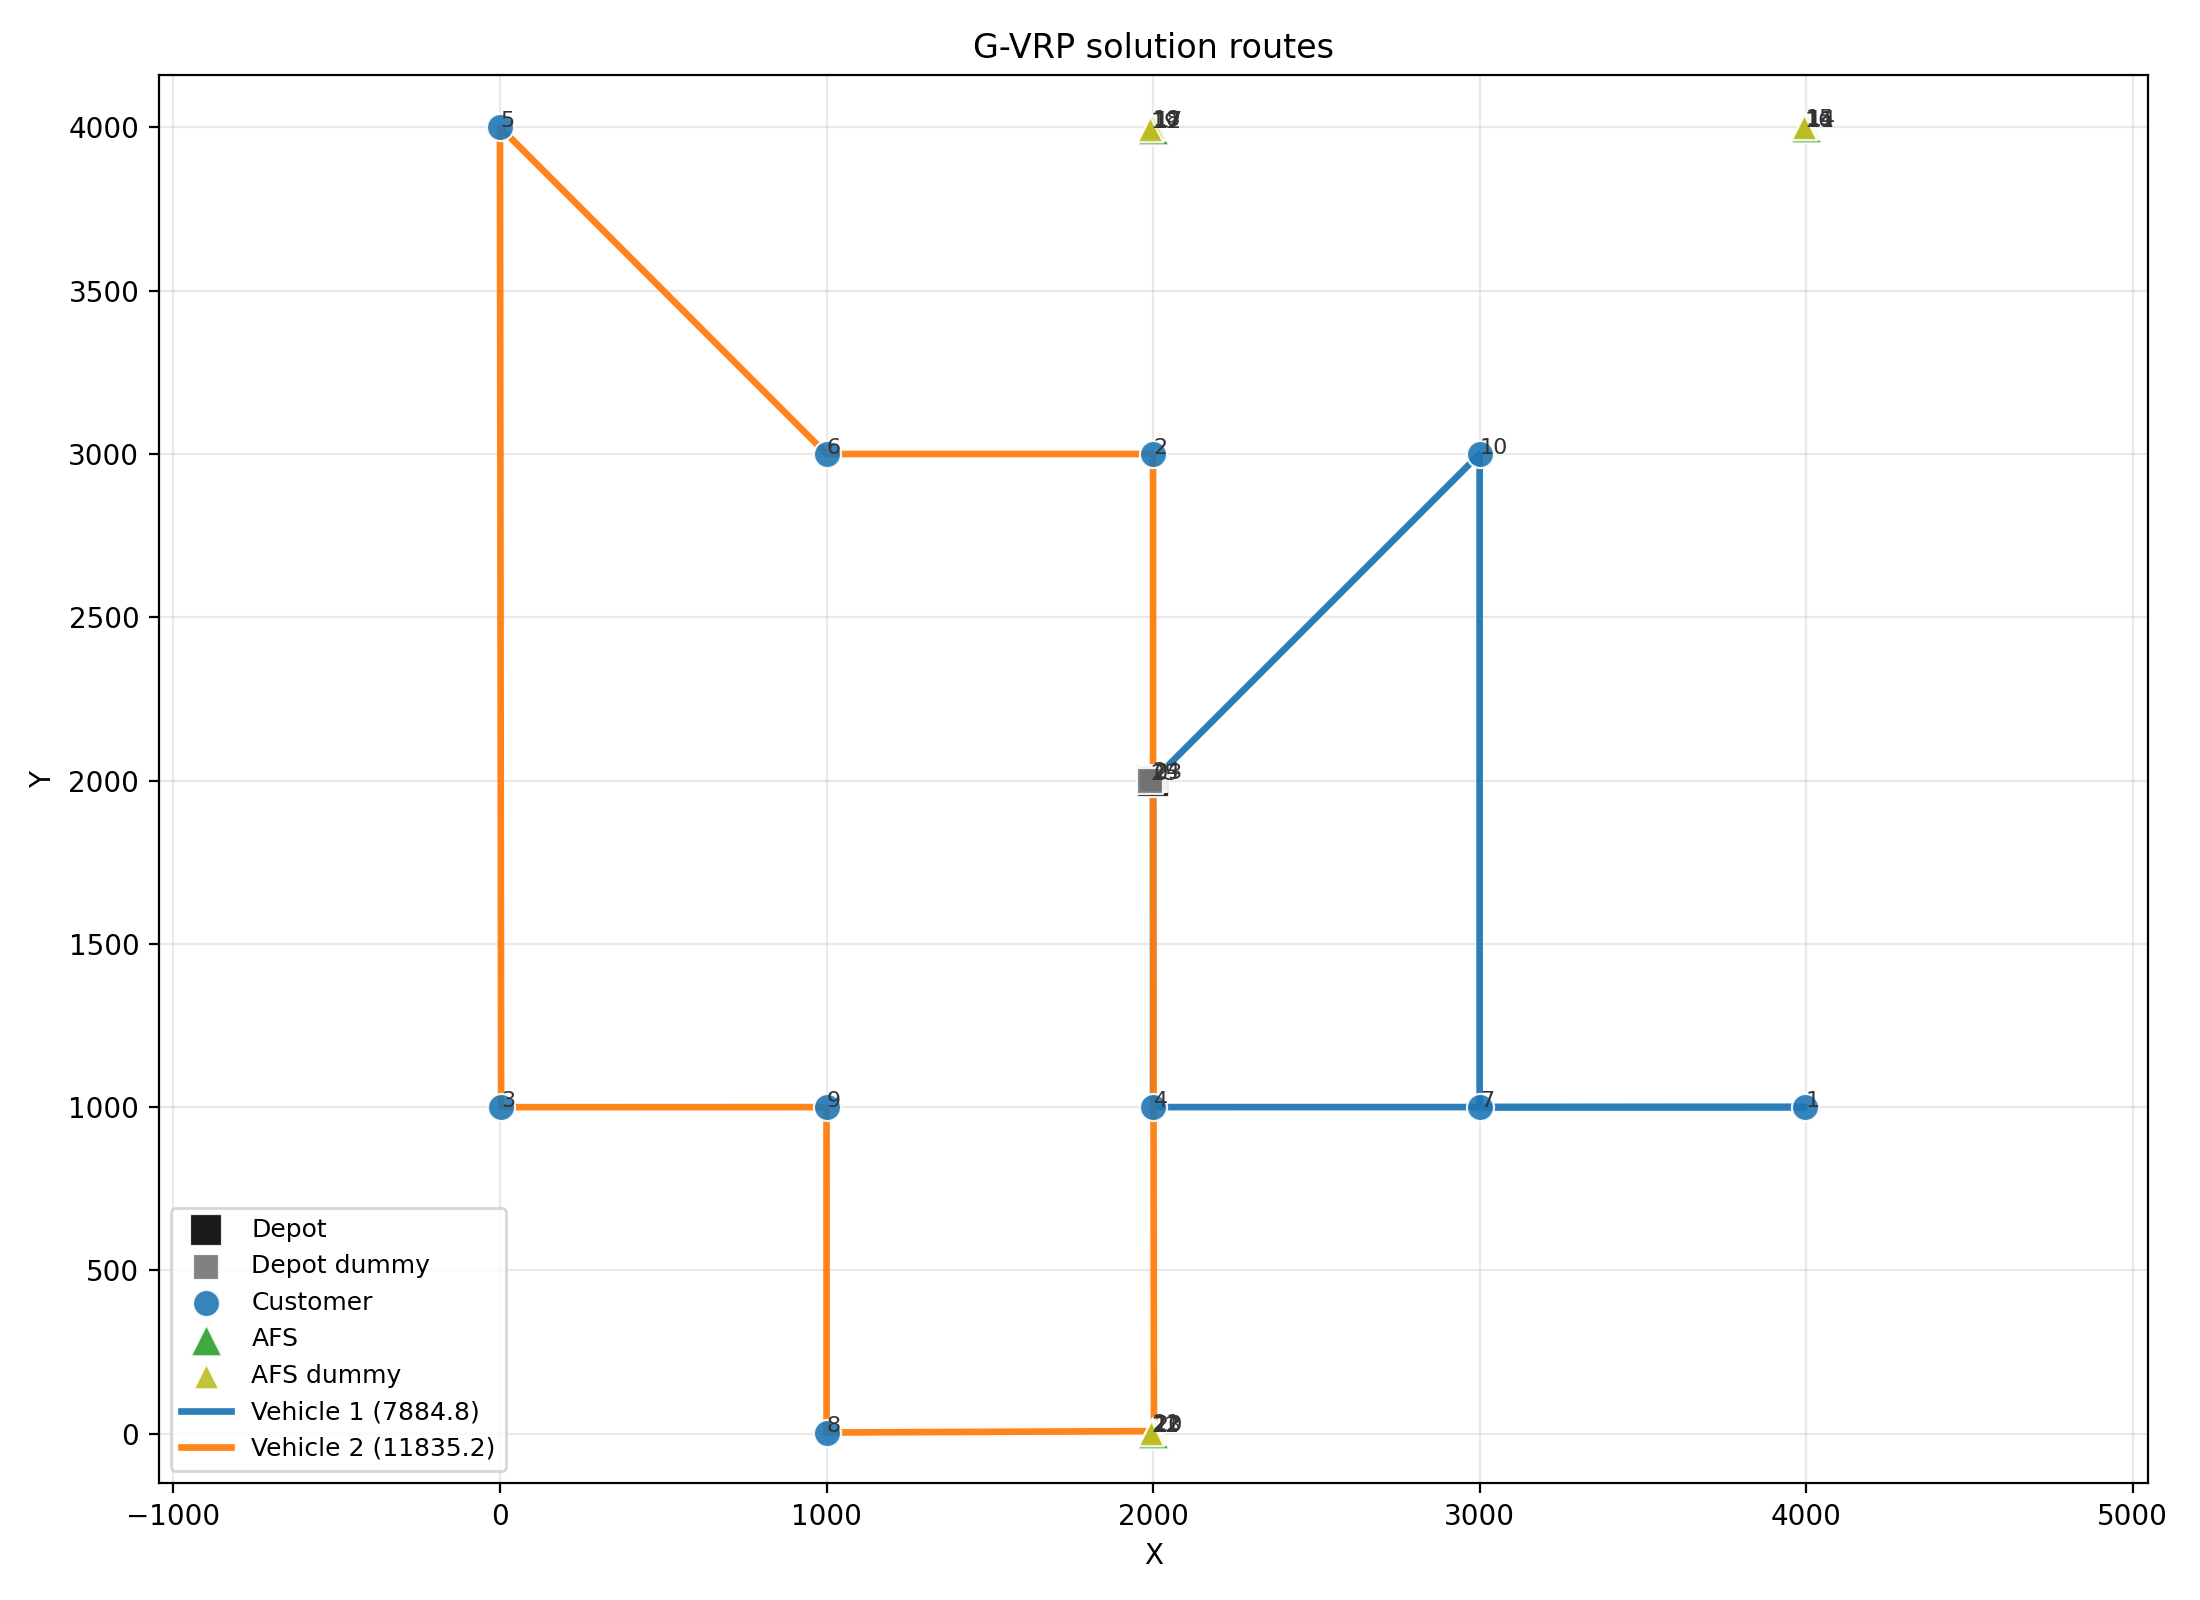
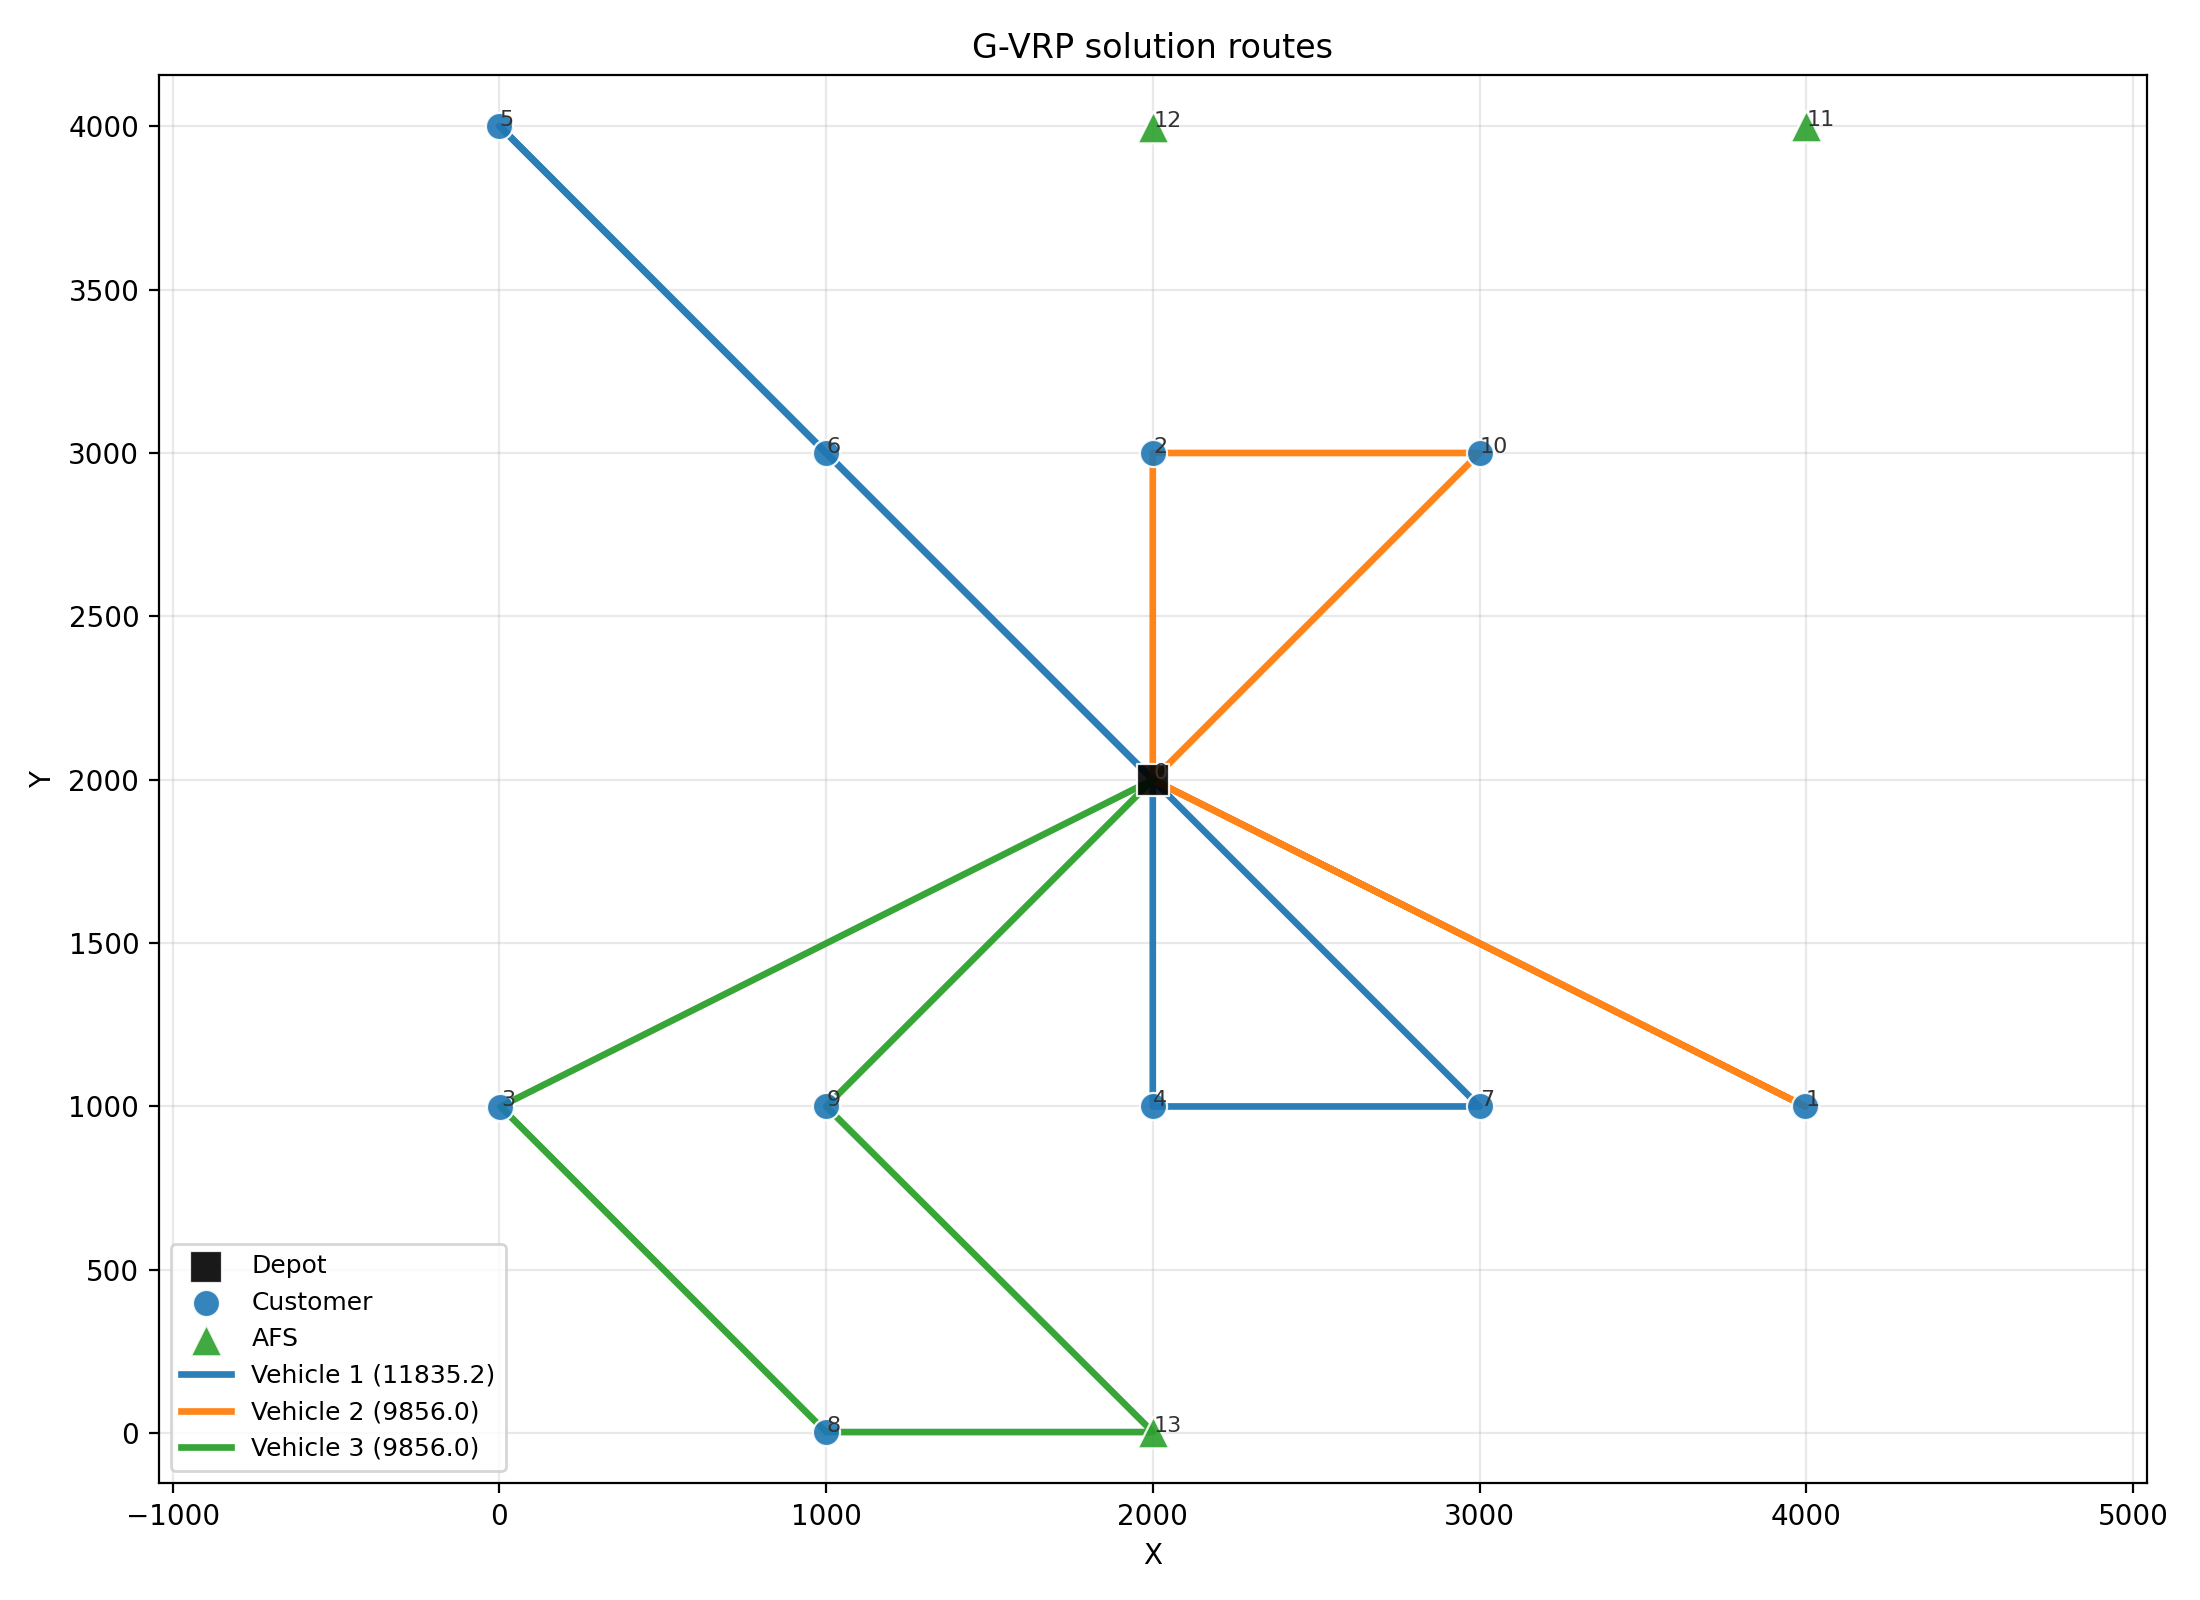
simulation bug fixed using claude

diff --git a/dronesim/evrp/planners/evrp_heuristic.py b/dronesim/evrp/planners/evrp_heuristic.py
@@ -33,7 +33,11 @@ from typing import Any
 import numpy as np
 import routingblocks as rb
 
-from ..evrp_exact import build_problem_instance_from_config
+from ..evrp_exact import (
+    build_problem_instance_from_config,
+    build_simulation_dist_matrix,
+    load_sumo_graph,
+)
 from .base import BasePlanner, Route, Stop
 
 
@@ -90,16 +94,21 @@ class EVRPHeuristicPlanner(BasePlanner):
         if not customer_indices:
             raise ValueError("No customer nodes in instance")
 
-        # Convert distance matrix to miles for consistent battery accounting
-        dist_miles = _scale_dist_to_miles(physical_dist, distance_unit)
-        # Battery consumed per unit distance (gal / mile * miles → gallons)
-        # rb uses cost = distance, battery consumed = r * distance
-        # We'll express all distances in miles so consumption = gal_per_mile
+        # Build simulation-consistent directed distance matrix (miles).
+        # The simulator routes edge-to-edge (outgoing_edge(src) → incoming_edge(dst))
+        # which adds the framing edge lengths on top of the node-to-node graph
+        # distance.  Using node-to-node distances here would make rb underestimate
+        # fuel consumption by ~2-3×, producing infeasible routes.
+        net_xml_path = generation_info["net_xml_path"]
+        graph_data = load_sumo_graph(net_xml_path)
+        # sim_dist is in distance_unit (meters); convert to miles for rb
+        sim_dist_m = build_simulation_dist_matrix(sumo_ids, graph_data, "meters")
+        dist_miles = sim_dist_m * 0.000621371
 
         BIG = 1e9
         BIG_TIME = 1e9
 
-        def makespan(solution: rb.Solution) -> float:
+        def makespan(solution: rb.Solution, fleet_count=0) -> float:
             """Return max route cost across all routes."""
             costs = [route.cost for route in solution]
             return max(costs) if costs else 0.0
@@ -181,7 +190,7 @@ class EVRPHeuristicPlanner(BasePlanner):
         for a_id in all_rb_ids:
             for b_id in all_rb_ids:
                 d = arc_dist(a_id, b_id)
-                builder.add_arc(a_id, b_id, rb.adptw.ArcData(d, d, d))
+                builder.add_arc(a_id, b_id, rb.adptw.ArcData(d, d, d * gal_per_mile))
 
         builder.fleet_size = num_vehicles
         instance = builder.build()
@@ -238,7 +247,7 @@ class EVRPHeuristicPlanner(BasePlanner):
             rb.create_route(evaluation, instance, b) for b in buckets if b
         ]
         best_sol = rb.Solution(evaluation, instance, init_routes)
-        best_objective = objective_with_fleet_penalty(best_sol, num_vehicles)
+        best_objective = makespan(best_sol, num_vehicles)
 
         # ── Main ALNS loop ─────────────────────────────────────────────────
         for it in range(1, alns_iterations + 1):
@@ -265,7 +274,7 @@ class EVRPHeuristicPlanner(BasePlanner):
                         evaluation, instance,
                         [r for r in opt_routes if not r.empty],
                     )
-                    fpo_objective = objective_with_fleet_penalty(
+                    fpo_objective = makespan(
                         fpo_sol,
                         num_vehicles,
                     )
@@ -275,7 +284,7 @@ class EVRPHeuristicPlanner(BasePlanner):
                 except Exception:
                     pass
 
-            current_objective = objective_with_fleet_penalty(
+            current_objective = makespan(
                 current,
                 num_vehicles,
             )
@@ -288,6 +297,13 @@ class EVRPHeuristicPlanner(BasePlanner):
 
             if it % 20 == 0:
                 alns.adapt_operator_weights()
+
+        final_routes = sum(1 for r in best_sol if len(r) > 2)
+        print(
+            f"ALNS complete: makespan={best_objective:.1f}, "
+            f"routes={final_routes}/{num_vehicles}, "
+            f"feasible={best_sol.feasible}"
+        )
 
         # ── Extract routes → list[Route] ───────────────────────────────────
         customer_rb_id_set = set(customer_rb_ids)

diff --git a/dronesim/evrp/evrp_exact.py b/dronesim/evrp/evrp_exact.py
@@ -121,6 +121,25 @@ def load_sumo_graph(net_path: str) -> dict[str, Any]:
         for node_id in g_dir.nodes
     }
 
+    # Canonical edges per node — mirrors _node_to_outgoing_edge / _node_to_incoming_edge
+    # in evrp_sim.py so planning distances can match simulation routing distances.
+    canonical_outgoing: dict[str, tuple[str, float]] = {}  # node_id → (to_node_id, length_m)
+    canonical_incoming: dict[str, tuple[str, float]] = {}  # node_id → (from_node_id, length_m)
+    for node in net.getNodes():
+        node_id = node.getID()
+        if node_id.startswith(":"):
+            continue
+        for e in node.getOutgoing():
+            if not e.getID().startswith(":"):
+                elen = float(e.getLength()) if e.getLength() > 0 else 0.0
+                canonical_outgoing[node_id] = (e.getToNode().getID(), elen)
+                break
+        for e in node.getIncoming():
+            if not e.getID().startswith(":"):
+                elen = float(e.getLength()) if e.getLength() > 0 else 0.0
+                canonical_incoming[node_id] = (e.getFromNode().getID(), elen)
+                break
+
     return {
         "net_xml_path": net_xml_path,
         "graph": g_dir,
@@ -128,6 +147,8 @@ def load_sumo_graph(net_path: str) -> dict[str, Any]:
         "node2idx": node2idx,
         "idx2node": idx2node,
         "node_positions": node_positions,
+        "canonical_outgoing": canonical_outgoing,
+        "canonical_incoming": canonical_incoming,
     }
 
 
@@ -259,6 +280,47 @@ def build_distance_matrix_from_shortest_paths(
             dij = dij_meters * factor
             dist[i, j] = dij
             dist[j, i] = dij
+
+    return dist
+
+
+def build_simulation_dist_matrix(
+    selected_node_ids: list[str],
+    graph_data: dict[str, Any],
+    distance_unit: str,
+) -> np.ndarray:
+    """Build directed distance matrix that matches simulation edge-to-edge routing.
+
+    The simulator routes via traci.simulation.findRoute(outgoing_edge(src),
+    incoming_edge(dst)), so the distance includes the full outgoing edge from
+    src and the full incoming edge into dst — not just the junction-to-junction
+    shortest path. This function computes:
+
+        dist[i, j] = out_edge(src).length
+                   + shortest_path(out_edge.to_node, in_edge.from_node)
+                   + in_edge(dst).length
+
+    using the same canonical edge selection as the simulator.
+    """
+    shortest_paths = graph_data["shortest_paths"]
+    canonical_outgoing = graph_data["canonical_outgoing"]
+    canonical_incoming = graph_data["canonical_incoming"]
+    factor = _distance_unit_factor(distance_unit)
+    n = len(selected_node_ids)
+    dist = np.full((n, n), float(INF))
+    np.fill_diagonal(dist, 0.0)
+
+    for i, src in enumerate(selected_node_ids):
+        for j, dst in enumerate(selected_node_ids):
+            if i == j:
+                continue
+            if src not in canonical_outgoing or dst not in canonical_incoming:
+                continue
+            out_to, out_len = canonical_outgoing[src]
+            in_from, in_len = canonical_incoming[dst]
+            mid = shortest_paths.get(out_to, {}).get(in_from, float(INF))
+            if mid < INF:
+                dist[i, j] = (out_len + mid + in_len) * factor
 
     return dist
 

diff --git a/run_sim.py b/run_sim.py
@@ -162,7 +162,6 @@ def _print_metrics(metrics: dict) -> None:
 def main() -> None:
     parser = argparse.ArgumentParser(description="EVRP planner + SUMO simulator")
     parser.add_argument("-c", "--config", default="config/evrp/milp.yaml")
-    parser.add_argument("--planner", default="milp", help="Planner name (default: milp)")
     parser.add_argument("--no-sim", action="store_true", help="Skip SUMO simulation")
     parser.add_argument("--no-plot", action="store_true", help="Suppress route plot")
     args = parser.parse_args()
@@ -179,8 +178,8 @@ def main() -> None:
         config["output"]["save_metrics_json"] = str(RUNS_DIR / Path(config["output"]["save_metrics_json"]).name)
 
     # ── Plan ─────────────────────────────────────────────────────────────────
-    print(f"\n[1/3] Planning with '{args.planner}' planner...")
-    planner = get_planner(args.planner)
+    print(f"\n[1/3] Planning with '{config['planner']}' planner...")
+    planner = get_planner(config['planner'])
     routes = planner.plan(config)
     _print_routes(routes)
 
